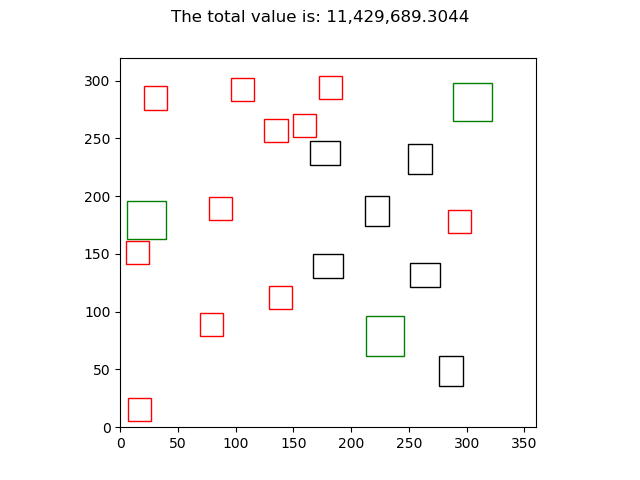
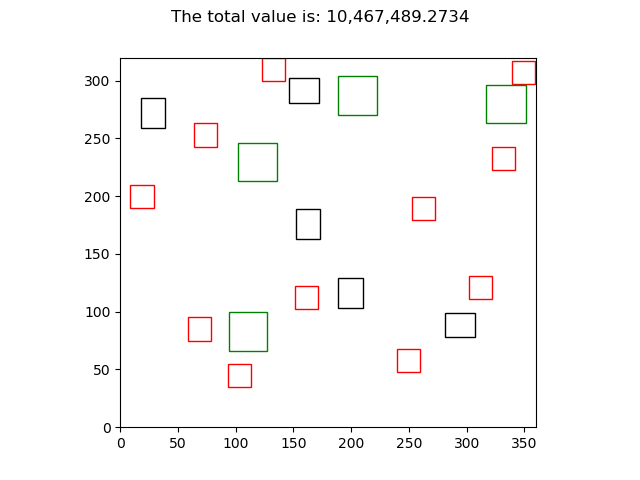
update

diff --git a/main.py b/main.py
@@ -1,5 +1,5 @@
 import random_algoritm
-
+import hillclimber_algoritm
 
 if __name__ == "__main__":
 
@@ -10,3 +10,13 @@ if __name__ == "__main__":
         iterations = input("How many iterations?: ")
 
         random_algoritm.main(total_houses, iterations)
+
+    if algoritm == "hillclimber":
+
+        iterations = input("How many iterations random first?: ")
+
+        buildings = random_algoritm.main(total_houses, iterations)
+
+        iterations_hill = input("How many iterations for hillclimber: ")
+
+        hillclimber_algoritm.main(total_houses, iterations_hill, buildings)

diff --git a/hillclimber_algoritm.py b/hillclimber_algoritm.py
@@ -1,0 +1,21 @@
+# import files
+import classes
+import main
+import helpers
+import visualisation
+
+import matplotlib.pyplot as plt
+import matplotlib.patches as patches
+import random
+import pdb
+import numpy as np
+import locale
+import timeit
+import math
+
+
+def main(total_houses, iterations_hill, buildings):
+    for building in buildings:
+        print building
+
+    

diff --git a/random_algoritm.py b/random_algoritm.py
@@ -97,6 +97,7 @@ def main(total_houses, iterations):
 	# stop = timeit.default_timer()
 	# print "De tijd is: ", stop - start
     print "De hoogste score is: ", best_iteration
+    return buildings
 
 # if __name__ == "__main__":
 #     main(iterations)
